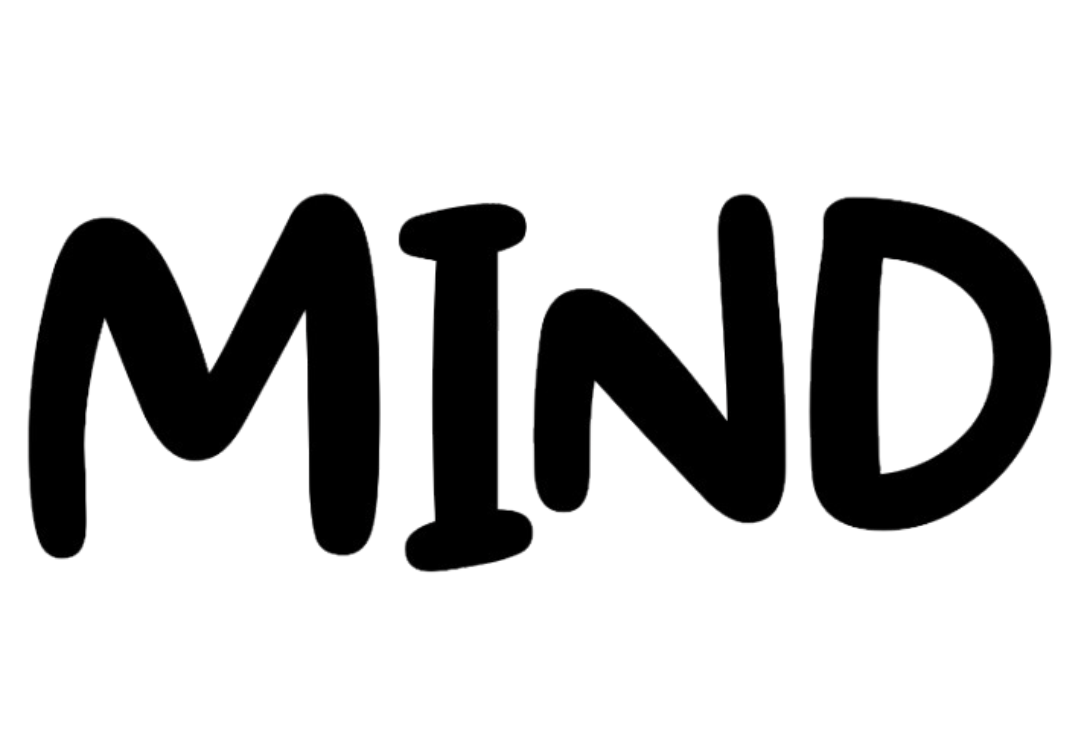
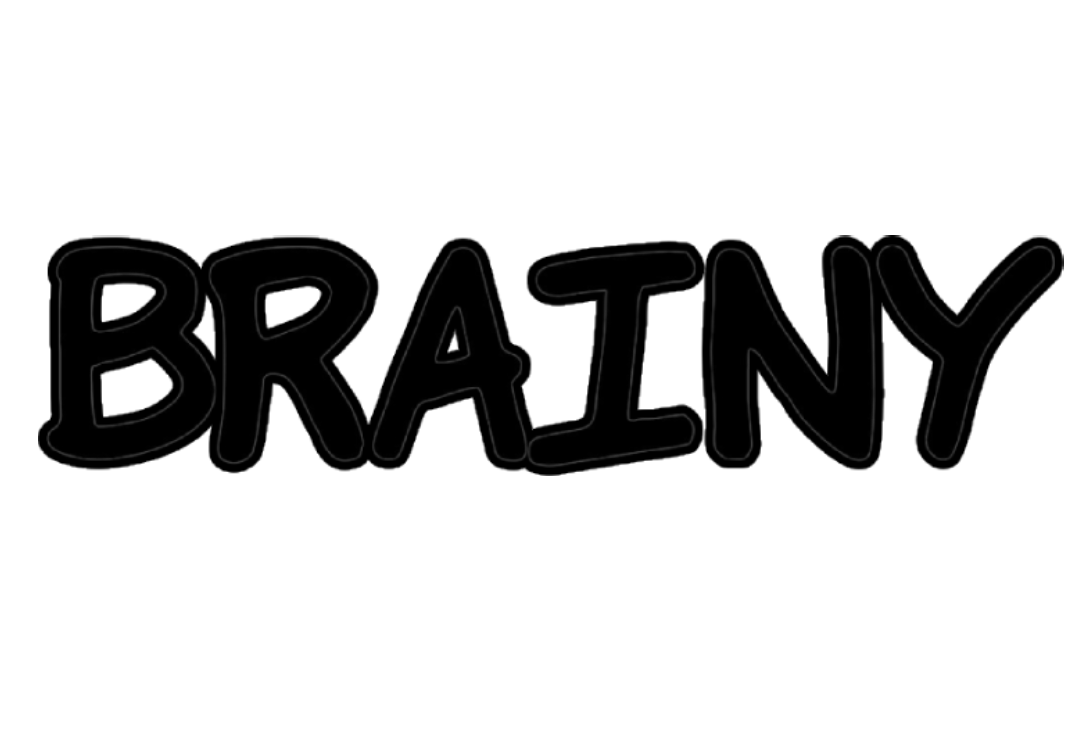
1

Changed region(s): [[0.0, 0.2398, 1.0, 0.7793]]

diff --git a/index.html b/index.html
@@ -9,8 +9,8 @@
 <meta http-equiv="Expires" content="0" />
     <link rel="icon" href="./assets/logo1.png" type="image/png">
     <link rel="apple-touch-icon" href="./assets/logo1.png">
-    <title>Mind</title>
-    <meta name="description" content="MIND is a cheeky, sarcastic genius representing your inner thoughts on the Solana network." />
+    <title>Brainy</title>
+    <meta name="description" content="BRAINY is a cheeky, sarcastic genius representing your inner thoughts on the Solana network." />
   
     <link rel="preconnect" href="https://fonts.googleapis.com">
     <link rel="preconnect" href="https://fonts.gstatic.com" crossorigin>
@@ -25,48 +25,48 @@
       <div class="ticker-wrapper">
         <div class="ticker">
             <div class="ticker-move">
-                <span class="text">Lkoq...<span style="color:#ff7bd3; font-weight: bold; text-transform: uppercase;">Mind</span></span>
-                <span class="text">Lkoq...<span style="color:#ff7bd3; font-weight: bold; text-transform: uppercase;">Mind</span></span>
-                <span class="text">Lkoq...<span style="color:#ff7bd3; font-weight: bold; text-transform: uppercase;">Mind</span></span>
-                <span class="text">Lkoq...<span style="color:#ff7bd3; font-weight: bold; text-transform: uppercase;">Mind</span></span>
-                <span class="text">Lkoq...<span style="color:#ff7bd3; font-weight: bold; text-transform: uppercase;">Mind</span></span>
-                <span class="text">Lkoq...<span style="color:#ff7bd3; font-weight: bold; text-transform: uppercase;">Mind</span></span>
-                <span class="text">Lkoq...<span style="color:#ff7bd3; font-weight: bold; text-transform: uppercase;">Mind</span></span>
-                <span class="text">Lkoq...<span style="color:#ff7bd3; font-weight: bold; text-transform: uppercase;">Mind</span></span>
-                <span class="text">Lkoq...<span style="color:#ff7bd3; font-weight: bold; text-transform: uppercase;">Mind</span></span>
-                <span class="text">Lkoq...<span style="color:#ff7bd3; font-weight: bold; text-transform: uppercase;">Mind</span></span>
-                <span class="text">Lkoq...<span style="color:#ff7bd3; font-weight: bold; text-transform: uppercase;">Mind</span></span>
-                <span class="text">Lkoq...<span style="color:#ff7bd3; font-weight: bold; text-transform: uppercase;">Mind</span></span>
-                <span class="text">Lkoq...<span style="color:#ff7bd3; font-weight: bold; text-transform: uppercase;">Mind</span></span>
-                <span class="text">Lkoq...<span style="color:#ff7bd3; font-weight: bold; text-transform: uppercase;">Mind</span></span>
-                <span class="text">Lkoq...<span style="color:#ff7bd3; font-weight: bold; text-transform: uppercase;">Mind</span></span>
-                <span class="text">Lkoq...<span style="color:#ff7bd3; font-weight: bold; text-transform: uppercase;">Mind</span></span>
-                <span class="text">Lkoq...<span style="color:#ff7bd3; font-weight: bold; text-transform: uppercase;">Mind</span></span>
-                <span class="text">Lkoq...<span style="color:#ff7bd3; font-weight: bold; text-transform: uppercase;">Mind</span></span>
-                <span class="text">Lkoq...<span style="color:#ff7bd3; font-weight: bold; text-transform: uppercase;">Mind</span></span>
-                <span class="text">Lkoq...<span style="color:#ff7bd3; font-weight: bold; text-transform: uppercase;">Mind</span></span>
+                <span class="text">Bkx2...<span style="color:#ff7bd3; font-weight: bold; text-transform: uppercase;">pump</span></span>
+                <span class="text">Bkx2...<span style="color:#ff7bd3; font-weight: bold; text-transform: uppercase;">pump</span></span>
+                <span class="text">Bkx2...<span style="color:#ff7bd3; font-weight: bold; text-transform: uppercase;">pump</span></span>
+                <span class="text">Bkx2...<span style="color:#ff7bd3; font-weight: bold; text-transform: uppercase;">pump</span></span>
+                <span class="text">Bkx2...<span style="color:#ff7bd3; font-weight: bold; text-transform: uppercase;">pump</span></span>
+                <span class="text">Bkx2...<span style="color:#ff7bd3; font-weight: bold; text-transform: uppercase;">pump</span></span>
+                <span class="text">Bkx2...<span style="color:#ff7bd3; font-weight: bold; text-transform: uppercase;">pump</span></span>
+                <span class="text">Bkx2...<span style="color:#ff7bd3; font-weight: bold; text-transform: uppercase;">pump</span></span>
+                <span class="text">Bkx2...<span style="color:#ff7bd3; font-weight: bold; text-transform: uppercase;">pump</span></span>
+                <span class="text">Bkx2...<span style="color:#ff7bd3; font-weight: bold; text-transform: uppercase;">pump</span></span>
+                <span class="text">Bkx2...<span style="color:#ff7bd3; font-weight: bold; text-transform: uppercase;">pump</span></span>
+                <span class="text">Bkx2...<span style="color:#ff7bd3; font-weight: bold; text-transform: uppercase;">pump</span></span>
+                <span class="text">Bkx2...<span style="color:#ff7bd3; font-weight: bold; text-transform: uppercase;">pump</span></span>
+                <span class="text">Bkx2...<span style="color:#ff7bd3; font-weight: bold; text-transform: uppercase;">pump</span></span>
+                <span class="text">Bkx2...<span style="color:#ff7bd3; font-weight: bold; text-transform: uppercase;">pump</span></span>
+                <span class="text">Bkx2...<span style="color:#ff7bd3; font-weight: bold; text-transform: uppercase;">pump</span></span>
+                <span class="text">Bkx2...<span style="color:#ff7bd3; font-weight: bold; text-transform: uppercase;">pump</span></span>
+                <span class="text">Bkx2...<span style="color:#ff7bd3; font-weight: bold; text-transform: uppercase;">pump</span></span>
+                <span class="text">Bkx2...<span style="color:#ff7bd3; font-weight: bold; text-transform: uppercase;">pump</span></span>
+                <span class="text">Bkx2...<span style="color:#ff7bd3; font-weight: bold; text-transform: uppercase;">pump</span></span>
             </div>
             <DIV class="ticker-move">
-                <span class="text">Lkoq...<span style="color:#ff7bd3; font-weight: bold; text-transform: uppercase;">Mind</span></span>
-                <span class="text">Lkoq...<span style="color:#ff7bd3; font-weight: bold; text-transform: uppercase;">Mind</span></span>
-                <span class="text">Lkoq...<span style="color:#ff7bd3; font-weight: bold; text-transform: uppercase;">Mind</span></span>
-                <span class="text">Lkoq...<span style="color:#ff7bd3; font-weight: bold; text-transform: uppercase;">Mind</span></span>
-                <span class="text">Lkoq...<span style="color:#ff7bd3; font-weight: bold; text-transform: uppercase;">Mind</span></span>
-                <span class="text">Lkoq...<span style="color:#ff7bd3; font-weight: bold; text-transform: uppercase;">Mind</span></span>
-                <span class="text">Lkoq...<span style="color:#ff7bd3; font-weight: bold; text-transform: uppercase;">Mind</span></span>
-                <span class="text">Lkoq...<span style="color:#ff7bd3; font-weight: bold; text-transform: uppercase;">Mind</span></span>
-                <span class="text">Lkoq...<span style="color:#ff7bd3; font-weight: bold; text-transform: uppercase;">Mind</span></span>
-                <span class="text">Lkoq...<span style="color:#ff7bd3; font-weight: bold; text-transform: uppercase;">Mind</span></span>
-                <span class="text">Lkoq...<span style="color:#ff7bd3; font-weight: bold; text-transform: uppercase;">Mind</span></span>
-                <span class="text">Lkoq...<span style="color:#ff7bd3; font-weight: bold; text-transform: uppercase;">Mind</span></span>
-                <span class="text">Lkoq...<span style="color:#ff7bd3; font-weight: bold; text-transform: uppercase;">Mind</span></span>
-                <span class="text">Lkoq...<span style="color:#ff7bd3; font-weight: bold; text-transform: uppercase;">Mind</span></span>
-                <span class="text">Lkoq...<span style="color:#ff7bd3; font-weight: bold; text-transform: uppercase;">Mind</span></span>
-                <span class="text">Lkoq...<span style="color:#ff7bd3; font-weight: bold; text-transform: uppercase;">Mind</span></span>
-                <span class="text">Lkoq...<span style="color:#ff7bd3; font-weight: bold; text-transform: uppercase;">Mind</span></span>
-                <span class="text">Lkoq...<span style="color:#ff7bd3; font-weight: bold; text-transform: uppercase;">Mind</span></span>
-                <span class="text">Lkoq...<span style="color:#ff7bd3; font-weight: bold; text-transform: uppercase;">Mind</span></span>
-                <span class="text">Lkoq...<span style="color:#ff7bd3; font-weight: bold; text-transform: uppercase;">Mind</span></span>
+                <span class="text">Bkx2...<span style="color:#ff7bd3; font-weight: bold; text-transform: uppercase;">pump</span></span>
+                <span class="text">Bkx2...<span style="color:#ff7bd3; font-weight: bold; text-transform: uppercase;">pump</span></span>
+                <span class="text">Bkx2...<span style="color:#ff7bd3; font-weight: bold; text-transform: uppercase;">pump</span></span>
+                <span class="text">Bkx2...<span style="color:#ff7bd3; font-weight: bold; text-transform: uppercase;">pump</span></span>
+                <span class="text">Bkx2...<span style="color:#ff7bd3; font-weight: bold; text-transform: uppercase;">pump</span></span>
+                <span class="text">Bkx2...<span style="color:#ff7bd3; font-weight: bold; text-transform: uppercase;">pump</span></span>
+                <span class="text">Bkx2...<span style="color:#ff7bd3; font-weight: bold; text-transform: uppercase;">pump</span></span>
+                <span class="text">Bkx2...<span style="color:#ff7bd3; font-weight: bold; text-transform: uppercase;">pump</span></span>
+                <span class="text">Bkx2...<span style="color:#ff7bd3; font-weight: bold; text-transform: uppercase;">pump</span></span>
+                <span class="text">Bkx2...<span style="color:#ff7bd3; font-weight: bold; text-transform: uppercase;">pump</span></span>
+                <span class="text">Bkx2...<span style="color:#ff7bd3; font-weight: bold; text-transform: uppercase;">pump</span></span>
+                <span class="text">Bkx2...<span style="color:#ff7bd3; font-weight: bold; text-transform: uppercase;">pump</span></span>
+                <span class="text">Bkx2...<span style="color:#ff7bd3; font-weight: bold; text-transform: uppercase;">pump</span></span>
+                <span class="text">Bkx2...<span style="color:#ff7bd3; font-weight: bold; text-transform: uppercase;">pump</span></span>
+                <span class="text">Bkx2...<span style="color:#ff7bd3; font-weight: bold; text-transform: uppercase;">pump</span></span>
+                <span class="text">Bkx2...<span style="color:#ff7bd3; font-weight: bold; text-transform: uppercase;">pump</span></span>
+                <span class="text">Bkx2...<span style="color:#ff7bd3; font-weight: bold; text-transform: uppercase;">pump</span></span>
+                <span class="text">Bkx2...<span style="color:#ff7bd3; font-weight: bold; text-transform: uppercase;">pump</span></span>
+                <span class="text">Bkx2...<span style="color:#ff7bd3; font-weight: bold; text-transform: uppercase;">pump</span></span>
+                <span class="text">Bkx2...<span style="color:#ff7bd3; font-weight: bold; text-transform: uppercase;">pump</span></span>
             </div>
         </div>
       </div>
@@ -91,22 +91,22 @@
       <div class="social-links-and-ca-wrapper">
         <div class="social-links-wrapper">
 
-          <a class="social-link"  href="https://x.com/mindsolclub" target="_blank">
+          <a class="social-link"  href="https://x.com/brainywtf" target="_blank">
             <img class="social-img" src="./assets/social/x.svg"/>
           </a>
 
-          <a class="social-link"  href="https://t.me/mindsolclub" target="_blank">
+          <a class="social-link"  href="https://t.me/brainywtf" target="_blank">
             <img class="social-img" src="./assets/social/telegram.svg"/>
           </a>
           <a class="social-link"  href="#" target="_blank">
             <img class="social-img" src="./assets/DEXTools Isotype_black (alternative color).png"/>
           </a>
-            <a class="social-link"  href="https://pump.fun/LkoqQ9uqYeLyGVFy4L9NuoQ1Q5cUbjP9ZMxrmHbMind" target="_blank">
+            <a class="social-link"  href="https://pump.fun/Bkx2w3Uk1jLFYVb49Aw5AYJ3LcwGEW9QH52QEqapump" target="_blank">
             <img style="filter: brightness(0%);" class="social-img" src="./assets/pump.png"/>
           </a>
         </div>
         <div class="ca">
-          LkoqQ9uqYeLyGVFy4L9NuoQ1Q5cUbjP9ZMxrmHb<span style="color:#ff7bd3; font-weight: bold; text-transform: uppercase;">Mind</span>
+          Bkx2w3Uk1jLFYVb49Aw5AYJ3LcwGEW9QH52QEqa<span style="color:#ff7bd3; font-weight: bold; text-transform: uppercase;">pump</span>
         </div>
       </div>
 
@@ -117,8 +117,8 @@
           <img class="brain-text-logo shaker" alt="brain-text-logo" src="./assets/brain_header.png" />
         </div>
 
-        <span class="brain-text fade-in-element">MIND is a cheeky, sarcastic genius representing your inner thoughts on the Solana network.</span>
-        <a href="https://pump.fun/LkoqQ9uqYeLyGVFy4L9NuoQ1Q5cUbjP9ZMxrmHbMind" target="_blank" class="buy-brain-button"><img src="./assets/buy_brain_button.png" /></a>
+        <span class="brain-text fade-in-element">BRAINY is a cheeky, sarcastic genius representing your inner thoughts on the Solana network.</span>
+        <a href="https://pump.fun/Bkx2w3Uk1jLFYVb49Aw5AYJ3LcwGEW9QH52QEqapump" target="_blank" class="buy-brain-button"><img src="./assets/buy_brain_button.png" /></a>
       </div>
     </section>
     <section class="why-brain-wrapper">
@@ -126,10 +126,10 @@
         <div class="text-warpper">
           <img class="section-title why-brain-title fade-in-element" src="./assets/why_brain.png" />
           <br>
-            Dis smol MIND sez: "BUY NOW!"</br>
-            Dis big MIND sez: "MOON SOON!</br>
+            Dis smol BRAINY sez: "BUY NOW!"</br>
+            Dis big BRAINY sez: "MOON SOON!</br>
           </br>
-            Why $MIND Coin?</br>
+            Why $BRAINY Coin?</br>
           </br>
             MOON! We go zoom zoom 🚀</br>
             DIAMOND HANDS! No paper hands, no weak sauce 💎✋</br>
@@ -150,48 +150,48 @@
       <div class="ticker-wrapper dark">
         <div class="ticker">
             <div class="ticker-move">
-                <span class="text">$MIND</span>
-                <span class="text">$MIND</span>
-                <span class="text">$MIND</span>
-                <span class="text">$MIND</span>
-                <span class="text">$MIND</span>
-                <span class="text">$MIND</span>
-                <span class="text">$MIND</span>
-                <span class="text">$MIND</span>
-                <span class="text">$MIND</span>
-                <span class="text">$MIND</span>
-                <span class="text">$MIND</span>
-                <span class="text">$MIND</span>
-                <span class="text">$MIND</span>
-                <span class="text">$MIND</span>
-                <span class="text">$MIND</span>
-                <span class="text">$MIND</span>
-                <span class="text">$MIND</span>
-                <span class="text">$MIND</span>
-                <span class="text">$MIND</span>
-                <span class="text">$MIND</span>
+                <span class="text">$BRAINY</span>
+                <span class="text">$BRAINY</span>
+                <span class="text">$BRAINY</span>
+                <span class="text">$BRAINY</span>
+                <span class="text">$BRAINY</span>
+                <span class="text">$BRAINY</span>
+                <span class="text">$BRAINY</span>
+                <span class="text">$BRAINY</span>
+                <span class="text">$BRAINY</span>
+                <span class="text">$BRAINY</span>
+                <span class="text">$BRAINY</span>
+                <span class="text">$BRAINY</span>
+                <span class="text">$BRAINY</span>
+                <span class="text">$BRAINY</span>
+                <span class="text">$BRAINY</span>
+                <span class="text">$BRAINY</span>
+                <span class="text">$BRAINY</span>
+                <span class="text">$BRAINY</span>
+                <span class="text">$BRAINY</span>
+                <span class="text">$BRAINY</span>
             </div>
             <div class="ticker-move">
-                <span class="text">$MIND</span>
-                <span class="text">$MIND</span>
-                <span class="text">$MIND</span>
-                <span class="text">$MIND</span>
-                <span class="text">$MIND</span>
-                <span class="text">$MIND</span>
-                <span class="text">$MIND</span>
-                <span class="text">$MIND</span>
-                <span class="text">$MIND</span>
-                <span class="text">$MIND</span>
-                <span class="text">$MIND</span>
-                <span class="text">$MIND</span>
-                <span class="text">$MIND</span>
-                <span class="text">$MIND</span>
-                <span class="text">$MIND</span>
-                <span class="text">$MIND</span>
-                <span class="text">$MIND</span>
-                <span class="text">$MIND</span>
-                <span class="text">$MIND</span>
-                <span class="text">$MIND</span>
+                <span class="text">$BRAINY</span>
+                <span class="text">$BRAINY</span>
+                <span class="text">$BRAINY</span>
+                <span class="text">$BRAINY</span>
+                <span class="text">$BRAINY</span>
+                <span class="text">$BRAINY</span>
+                <span class="text">$BRAINY</span>
+                <span class="text">$BRAINY</span>
+                <span class="text">$BRAINY</span>
+                <span class="text">$BRAINY</span>
+                <span class="text">$BRAINY</span>
+                <span class="text">$BRAINY</span>
+                <span class="text">$BRAINY</span>
+                <span class="text">$BRAINY</span>
+                <span class="text">$BRAINY</span>
+                <span class="text">$BRAINY</span>
+                <span class="text">$BRAINY</span>
+                <span class="text">$BRAINY</span>
+                <span class="text">$BRAINY</span>
+                <span class="text">$BRAINY</span>
             </div>
         </div>
       </div>
@@ -218,7 +218,7 @@
             <p>Download and install Phantom Wallet for iOS, Android or as a Chrome Extension.</p>
           </div>
 
-          <img src="/assets/a.png" alt="Create a wallet">
+          <img src="./assets/a.png" alt="Create a wallet">
         </div>
 
         <div class="step">
@@ -227,18 +227,18 @@
             <p>Get $SOL tokens from your favorite Cex like CoinBase and Binance and send them to your Phantom wallet.</p>
           </div>
 
-          <img src="/assets/b.png" alt="Buy some $SOL">
+          <img src="./assets/b.png" alt="Buy some $SOL">
         </div>
 
         <div class="step">
           <div class="step-title-and-text">
-            <h3>3. SWAP $SOL FOR $MIND</h3>
-            <p>Click on the button below, connect your wallet, and press SWAP! BOOM! <strong>You are a $MIND holder!</strong></p>
+            <h3>3. SWAP $SOL FOR $BRAINY</h3>
+            <p>Click on the button below, connect your wallet, and press SWAP! BOOM! <strong>You are a $BRAINY holder!</strong></p>
             <p></p>
-              <a href="https://pump.fun/LkoqQ9uqYeLyGVFy4L9NuoQ1Q5cUbjP9ZMxrmHbMind" target="_blank" class="buy-brain-instep">Buy $MIND</a>
+              <a href="https://pump.fun/Bkx2w3Uk1jLFYVb49Aw5AYJ3LcwGEW9QH52QEqapump" target="_blank" class="buy-brain-instep">Buy $BRAINY</a>
           </div>
 
-          <img src="/assets/c.png" alt="Swap $SOL for $MIND">
+          <img src="./assets/c.png" alt="Swap $SOL for $BRAINY">
         </div>
     </div>
     </section>
@@ -248,11 +248,11 @@
 
       <div class="social-links-wrapper-bottom">
 
-        <a class="social-link" href="https://x.com/mindsolclub" target="_blank">
+        <a class="social-link" href="https://x.com/brainywtf" target="_blank">
           <img class="social-img" src="./assets/social/x-w.svg"/>
         </a>
 
-        <a class="social-link" href="https://t.me/mindsolclub" target="_blank">
+        <a class="social-link" href="https://t.me/brainywtf" target="_blank">
           <img class="social-img" src="./assets/social/telegram-w.svg"/>
         </a>
       </div>
@@ -268,7 +268,7 @@
     </section>
     <div class="footer">
       <span class="disclaimer">
-        Legal Disclaimer: $MIND is a meme coin with no value or financial return. $MIND is purely for entertainment. By purchasing $MIND, you acknowledge this disclaimer.
+        Legal Disclaimer: $BRAINY is a meme coin with no value or financial return. $BRAINY is purely for entertainment. By purchasing $BRAINY, you acknowledge this disclaimer.
       </span>
     </div>
     <script type="text/javascript" src="./script.js?v=1.0.1"></script>
